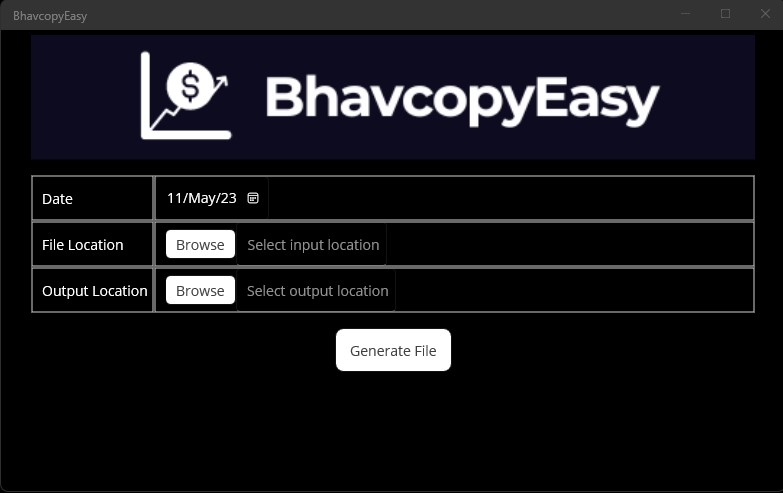
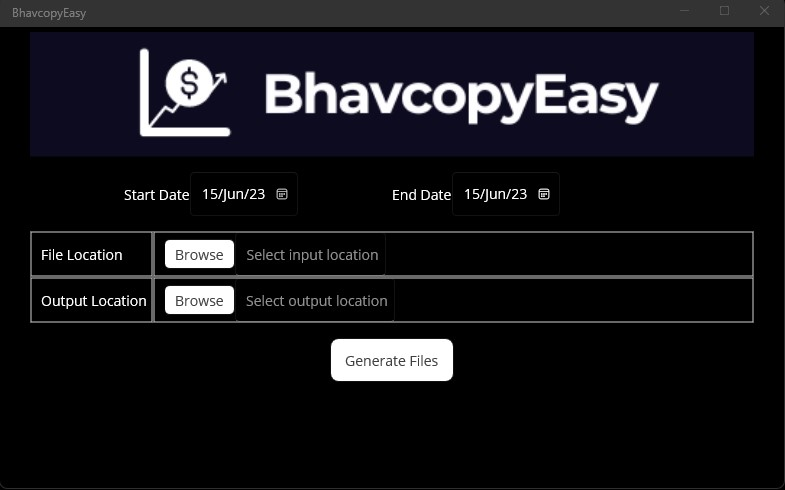
Added a date range instead of single day. (#8)

Changed region(s): [[0.0307, 0.3367, 0.9808, 0.7959], [0.0, 0.0, 1.0, 0.3061], [0.3372, 0.1224, 0.8582, 0.2755]]

diff --git a/README.md b/README.md
@@ -7,7 +7,7 @@ This tool does not download data.
 ### Usage
 ![App Screenshot](https://github.com/touchofevil-dev/BhavcopyEasy/blob/master/Images/BhavcopyEasy-Image.jpg)
 
-1. Select date for which you want to generate data.
+1. Select date range for which you want to generate data.
 2. Select folder in which you've both the data files (i.e. cash market and index).
 3. Select folder in which you'd like to generate the file.
 4. Click on Generate file.
